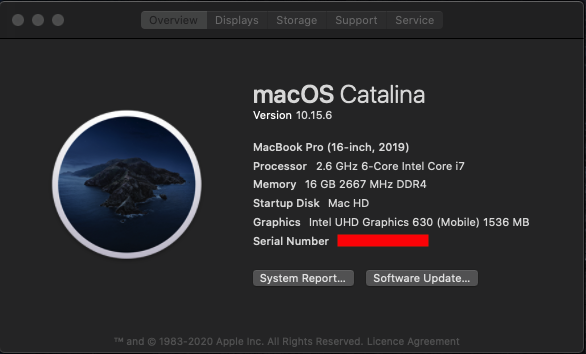
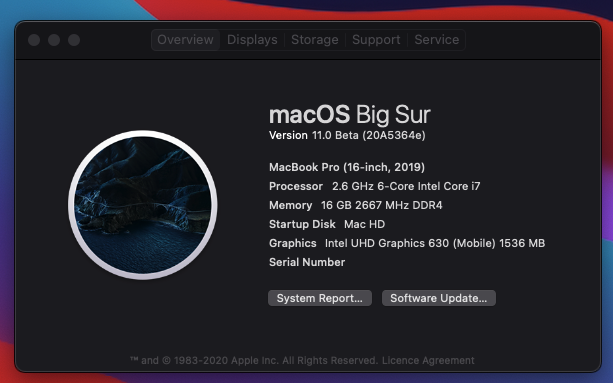
🚀 🔥  upgraded to hackitosh  11.0 Beta

diff --git a/README.md b/README.md
@@ -20,16 +20,16 @@
 
 <br/>
 
-#### Supports MacOS 10.15.x
+hackintosh#### Supports MacOS 11.0 Beta
 
 ![](Images/About.png)
 
-WiFi is working using [itlwm](https://github.com/OpenIntelWireless/itlwm) and [HeliPort](https://github.com/OpenIntelWireless/HeliPort)
+<br/>
+
+Intel WiFi is working with native Wi-Fi selection and switching using [AirportItlwm](https://github.com/OpenIntelWireless/itlwm/releases/tag/v1.1.0)
 
 ![](Images/WiFi.png)
 
-Trackpad is working with full gesture support
-![](Images/Trackpad.png)
 <br/>
 
 ## Whats not working:
